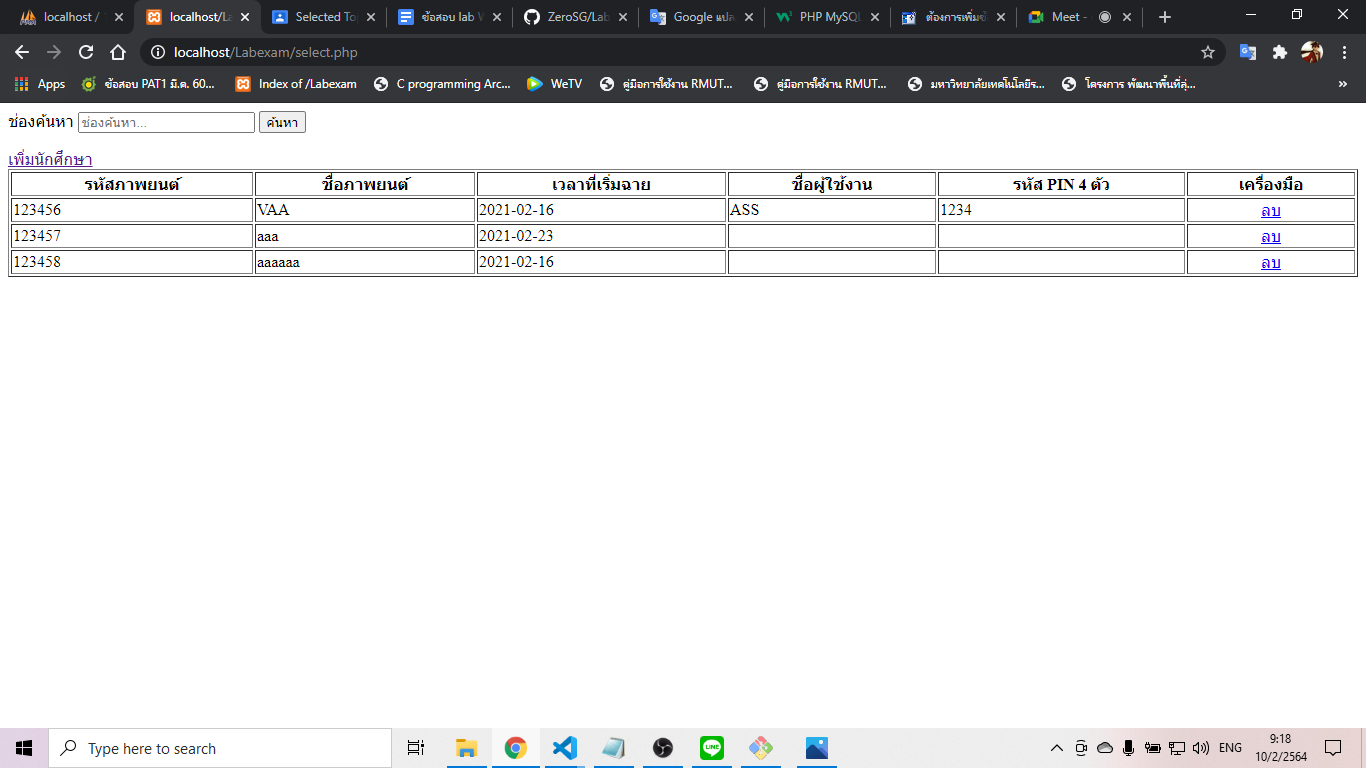
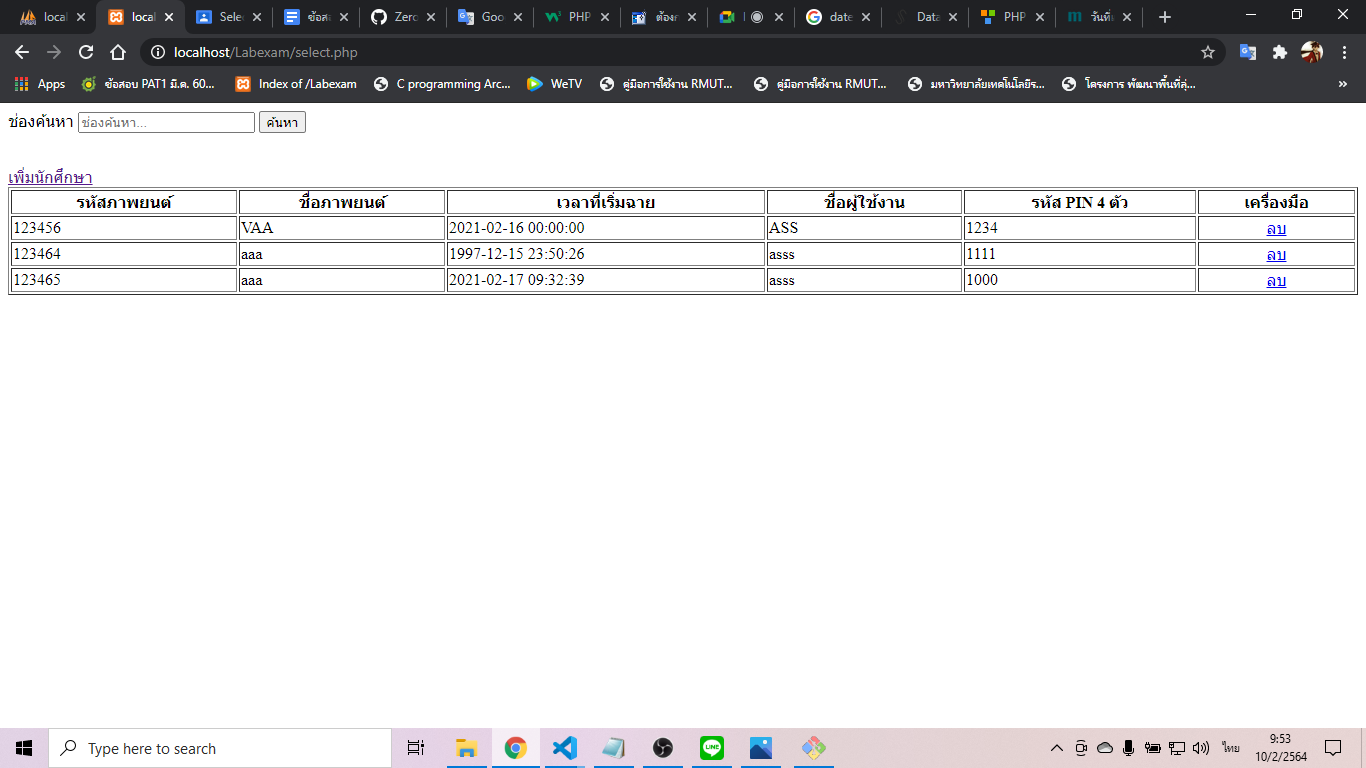
1.5

diff --git a/select.php b/select.php
@@ -22,6 +22,7 @@ $result = $conn->query($sql);
     <th>เวลาที่เริ่มฉาย</th>
     <th>ชื่อผู้ใช้งาน</th>
     <th>รหัส PIN 4 ตัว</th>
+    <th>เครื่องมือ</th>
   </tr>
 <?php
 if ($result->num_rows > 0) {
@@ -33,6 +34,9 @@ if ($result->num_rows > 0) {
     <td><?php echo $row["movie_time"];?></td>
     <td><?php echo $row["movie_fname"];?></td>
     <td><?php echo $row["movie_PIN"];?></td>
+    <td align = "center">
+    <a href="delete.php?id=<?php echo $row['movie_id']; ?>">ลบ</a>
+</td>
   </tr>
   <?php
   }

diff --git a/delete.php b/delete.php
@@ -1,0 +1,15 @@
+<?php
+require_once("sql.php");
+// sql to delete a record
+$sql = "DELETE FROM movies WHERE movie_id = '{$_GET['id']}'";
+ 
+if ($conn->query($sql) === TRUE) {
+  echo "Record deleted successfully";
+} else {
+  echo "Error deleting record: " . $conn->error;
+}
+ 
+$conn->close();
+?>
+<br>
+<a href="select.php">กลับหน้าหลัก</a>

diff --git a/Insert_db.php b/Insert_db.php
@@ -10,5 +10,4 @@
     <input type="submit">
     <input type="reset">
     <br>
-    <br>
     <a href="select.php">กลับหน้าหลัก</a>

diff --git a/Insert.php b/Insert.php
@@ -11,5 +11,4 @@ if ($conn->query($sql) === TRUE) {
 $conn->close();
   ?>  
 <br>
-<br>
 <a href="select.php">กลับหน้าหลัก</a>

diff --git a/sql.php b/sql.php
@@ -7,5 +7,6 @@ if ($conn -> connect_errno) {
   exit();
 }else {
      //echo "เชื่อม MySQLได้";
+     
 }
 ?>

diff --git a/index.php b/index.php
@@ -8,6 +8,7 @@
 <body>
 <?php
 require_once("select.php");
+
 ?>
 </body>
 </html>
